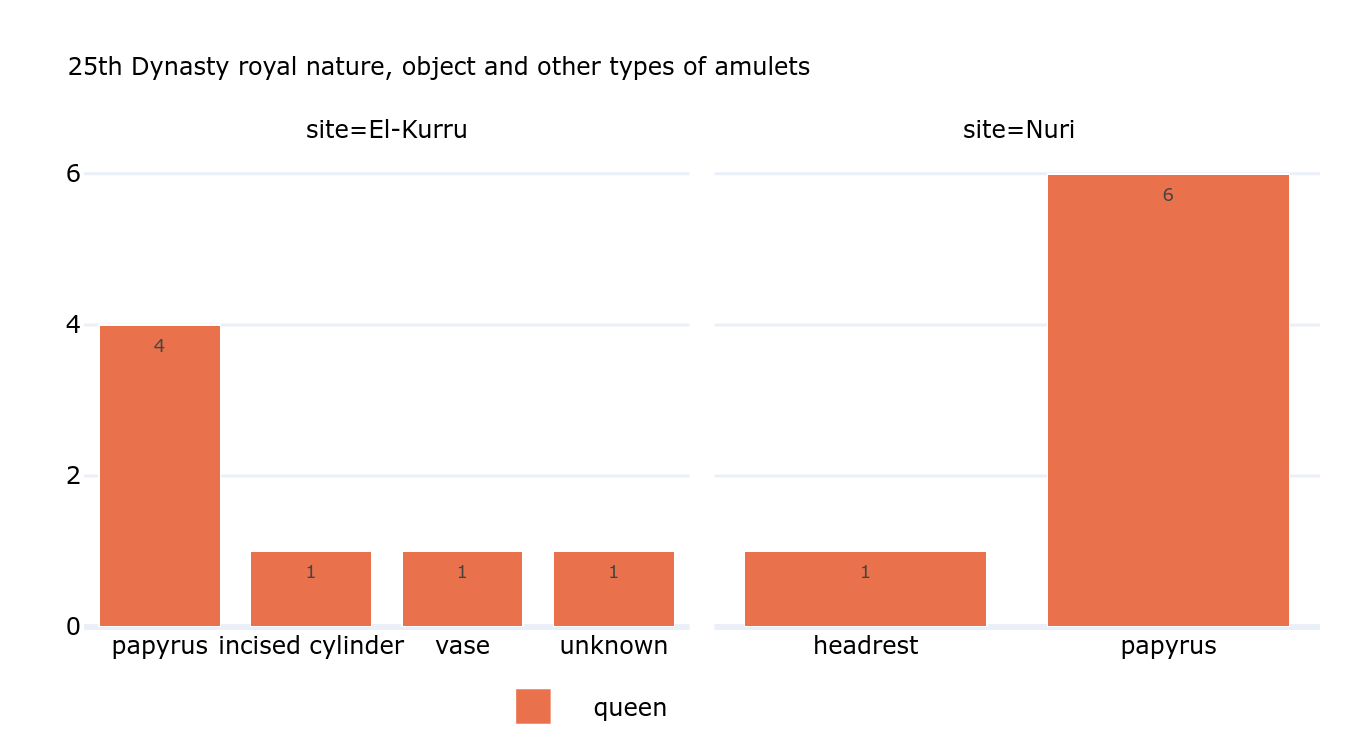
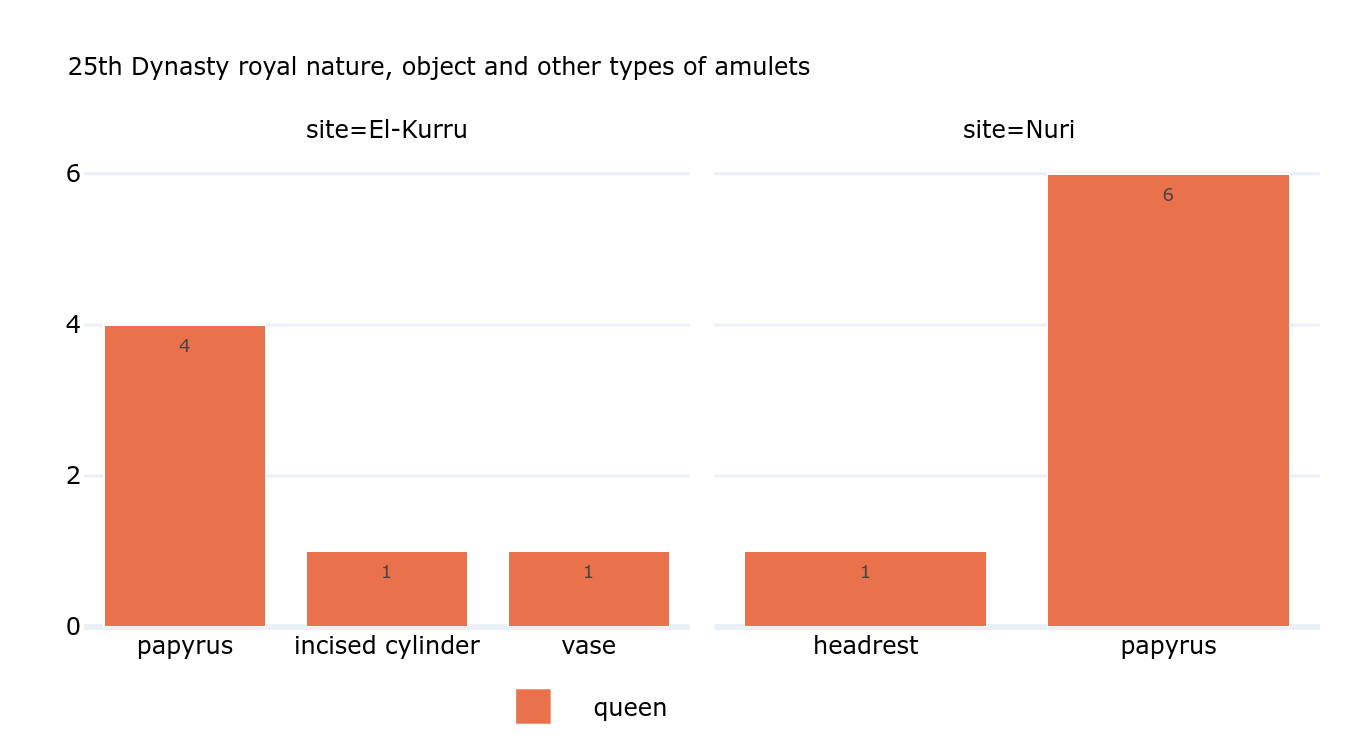
trying regional

Changed region(s): [[0.0933, 0.4293, 0.4978, 0.8893], [0.0622, 0.46, 0.0933, 0.828]]

diff --git a/chapter5/region_forms.py b/chapter5/region_forms.py
@@ -1,0 +1,71 @@
+import pandas as pd
+import plotly.express as px
+from sqlalchemy import create_engine
+import plotly.io as pio
+import plotly.graph_objects as go
+
+engine = create_engine('mysql+pymysql://victoria:amulets123@localhost:3306/phd_v5')
+
+query = """
+SELECT 
+    s.region,
+    a.form
+FROM amulets a
+JOIN burials b ON a.burial_id = b.burial_id
+JOIN sites s ON a.site_id = s.site_id
+WHERE b.dating = 'napatan' 
+    AND b.social_group = 'non-elite'
+    AND a.form2 IS NULL
+GROUP BY s.region, a.form
+HAVING NOT EXISTS (
+    SELECT 1
+    FROM amulets a2
+    JOIN burials b2 ON a2.burial_id = b2.burial_id
+    JOIN sites s2 ON a2.site_id = s2.site_id
+    WHERE a2.form = a.form
+        AND s2.region != s.region
+        AND b2.dating = 'napatan' 
+        AND b2.social_group = 'non-elite'
+        AND a2.form2 IS NULL
+)
+ORDER BY 1,2
+"""
+
+df = pd.read_sql(query, engine)
+
+custom_colors = ['#C0C0C0']
+
+region_order = ["lower nubia", "north upper nubia", "4th cataract", "meroe region"]
+
+df['region'] = pd.Categorical(df['region'], categories=region_order, ordered=True)
+
+df = df.sort_values('region')
+
+df = df.reset_index(drop=True)
+
+pivot_df = df.groupby(['form', 'region']).size().unstack(fill_value=0)
+
+fig = px.imshow(
+    pivot_df,
+    #x='dummy',
+    #y='region',
+    #color='form',
+    title='Average number of amulets per tomb by region and phase',
+    #color_discrete_sequence=custom_colors,
+    template="plotly_white",
+    aspect='auto')
+
+fig.update_layout( 
+    font=dict(
+        family="Verdana, sans-serif",
+        color='black',
+        size=8),
+    margin=dict(l=0, r=10, t=50, b=0),
+    title_font=dict(size=8)
+)
+
+#fig.update_traces(textposition='top right', textfont_size=7)
+fig.update_xaxes(title_text='')
+fig.update_yaxes(title_text='')
+
+pio.write_image(fig, 'images/chapter5/region_forms.png',scale=3, width=400, height=300)

diff --git a/chapter5/25-EN_with_2forms.py b/chapter5/25-EN_with_2forms.py
@@ -25,22 +25,12 @@ GROUP BY 1,2
 
 df = pd.read_sql(query, engine)
 
-grey_smooth = [
-    [0.0, '#e0e0e0'],  # Light grey
-    [0.3, '#c8c8c8'],   # Medium light grey
-    [0.5, '#a0a0a0'],   # Medium grey
-    [0.7, '#787878'],   # Medium dark grey
-    [0.85, '#505050'],  # Dark grey
-    [1.0, '#282828']    # Very dark grey
-]
-
 fig = px.scatter(
     df,
     x="form2",
     y="form",
-    color="total",
     text='total',                 
-    color_continuous_scale='Sunset',
+    color_discrete_sequence=['#cccccc'],
     title="25th Dynasty-Early Napatan amulets combining two motifs",
     labels={"total": "Total"},
     size_max=20,
@@ -65,17 +55,11 @@ fig.update_layout(
     legend_title_text='',
     margin=dict(l=0, r=10, t=20, b=0),
     autosize=True,
-    title_font=dict(size=8),
-    coloraxis=dict(
-        colorbar=dict(
-            tickfont=dict(size=7),
-            title_font=dict(size=7)
-        )
-    )
+    title_font=dict(size=8)
 )
 
 fig.update_traces(textposition='top right', textfont_size=6)
 fig.update_xaxes(title_text='', tickangle=45)
 fig.update_yaxes(title_text='')
 
-pio.write_image(fig, 'images/chapter5/25-EN_with_2forms.png',scale=4, width=550, height=400)
+pio.write_image(fig, 'images/chapter5/25-EN_with_2forms.png',scale=3, width=550, height=400)

diff --git a/chapter5/elite_amulets_form_2.py b/chapter5/elite_amulets_form_2.py
@@ -21,6 +21,7 @@ WITH expanded_forms AS (
         AND a.form IS NOT NULL
         AND (super = 'pyramid' OR sub IN ('chambers', 'cave tomb'))
         AND type NOT IN ('deity', 'symbol')
+        and form != 'unknown'
 
     UNION ALL
 
@@ -36,6 +37,7 @@ WITH expanded_forms AS (
         AND a.form2 IS NOT NULL
         AND (super = 'pyramid' OR sub IN ('chambers', 'cave tomb'))
         AND type NOT IN ('deity', 'symbol')
+        and form != 'unknown'
 
     UNION ALL
 
@@ -51,6 +53,7 @@ WITH expanded_forms AS (
         AND a.form3 IS NOT NULL
         AND (super = 'pyramid' OR sub IN ('chambers', 'cave tomb'))
         AND type NOT IN ('deity', 'symbol')
+        and form != 'unknown'
 )
 SELECT 
     temp,

diff --git a/chapter4/25_amulets_forms_misc.py b/chapter4/25_amulets_forms_misc.py
@@ -21,6 +21,7 @@ WITH expanded_forms AS (
         AND s.site_id IN (1,2)
         AND a.form IS NOT NULL
         AND a.type IN ('object', 'other', 'nature', 'human')
+        and form != 'unknown'
 
     UNION ALL
 
@@ -38,6 +39,7 @@ WITH expanded_forms AS (
         AND s.site_id IN (1,2)
         AND a.form2 IS NOT NULL
         AND a.type IN ('object', 'other', 'nature', 'human')
+        and form != 'unknown'
 
     UNION ALL
 
@@ -55,6 +57,7 @@ WITH expanded_forms AS (
         AND s.site_id IN (1,2)
         AND a.form3 IS NOT NULL
         AND a.type IN ('object', 'other', 'nature', 'human')
+        and form != 'unknown'
 )
 SELECT 
     site_name,

diff --git a/chapter4/pre_amulets_forms.py b/chapter4/pre_amulets_forms.py
@@ -19,6 +19,7 @@ WITH expanded_forms AS (
         b.temp = 'pre-25th' 
         AND s.site_id IN (1,2)
         AND a.form IS NOT NULL
+        and form != 'unknown'
 
     UNION ALL
 
@@ -34,6 +35,7 @@ WITH expanded_forms AS (
         b.temp = 'pre-25th' 
         AND s.site_id IN (1,2)
         AND a.form2 IS NOT NULL
+        and form != 'unknown'
 
     UNION ALL
 
@@ -49,6 +51,7 @@ WITH expanded_forms AS (
         b.temp = 'pre-25th' 
         AND s.site_id IN (1,2)
         AND a.form3 IS NOT NULL
+        and form != 'unknown'
 )
 SELECT 
     site_name,

diff --git a/chapter4/early_amulets_forms.py b/chapter4/early_amulets_forms.py
@@ -19,6 +19,7 @@ WITH expanded_forms AS (
         b.temp = 'EN' 
         AND s.site_id IN (1,2)
         AND a.form IS NOT NULL
+        and form != 'unknown'
 
     UNION ALL
 
@@ -34,6 +35,7 @@ WITH expanded_forms AS (
         b.temp = 'EN' 
         AND s.site_id IN (1,2)
         AND a.form2 IS NOT NULL
+        and form != 'unknown'
 
     UNION ALL
 
@@ -49,6 +51,7 @@ WITH expanded_forms AS (
         b.temp = 'EN' 
         AND s.site_id IN (1,2)
         AND a.form3 IS NOT NULL
+        and form != 'unknown'
 )
 SELECT 
     site_name,

diff --git a/chapter4/late_amulets_forms.py b/chapter4/late_amulets_forms.py
@@ -19,6 +19,7 @@ WITH expanded_forms AS (
         b.temp = 'LN' 
         AND s.site_id IN (1,2)
         AND a.form IS NOT NULL
+        and form != 'unknown'
 
     UNION ALL
 
@@ -34,6 +35,7 @@ WITH expanded_forms AS (
         b.temp = 'LN' 
         AND s.site_id IN (1,2)
         AND a.form2 IS NOT NULL
+        and form != 'unknown'
 
     UNION ALL
 
@@ -49,6 +51,7 @@ WITH expanded_forms AS (
         b.temp = 'LN' 
         AND s.site_id IN (1,2)
         AND a.form3 IS NOT NULL
+        and form != 'unknown'
 )
 SELECT 
     site_name,

diff --git a/chapter4/middle_amulets_forms.py b/chapter4/middle_amulets_forms.py
@@ -19,6 +19,7 @@ WITH expanded_forms AS (
         b.temp = 'MN' 
         AND s.site_id IN (1,2)
         AND a.form IS NOT NULL
+        and form != 'unknown'
 
     UNION ALL
 
@@ -34,6 +35,7 @@ WITH expanded_forms AS (
         b.temp = 'MN' 
         AND s.site_id IN (1,2)
         AND a.form2 IS NOT NULL
+        and form != 'unknown'
 
     UNION ALL
 
@@ -49,6 +51,7 @@ WITH expanded_forms AS (
         b.temp = 'MN' 
         AND s.site_id IN (1,2)
         AND a.form3 IS NOT NULL
+        and form != 'unknown'
 )
 SELECT 
     site_name,

diff --git a/chapter5/25_amulets_form_rest.py b/chapter5/25_amulets_form_rest.py
@@ -18,7 +18,8 @@ WHERE
     AND temp = '25th'
     AND s.site_id IN (4,5,6,7,8,9,10)
     and social_group = 'non-elite'
-    and type in ('human', 'other', 'object', 'nature')\
+    and type in ('human', 'other', 'object', 'nature')
+    and form != 'unknown'
     and form2 is null
     and form3 is null
 GROUP BY 1,2

diff --git a/chapter5/25-EN_amulets_form_rest.py b/chapter5/25-EN_amulets_form_rest.py
@@ -26,6 +26,7 @@ WHERE
     AND a.form3 IS NULL
     AND social_group = 'non-elite'
     AND type IN ('nature', 'human', 'object', 'other')
+    and form != 'unknown'
 GROUP BY 1,2
 """
 

diff --git a/chapter5/EN_amulets_form.py b/chapter5/EN_amulets_form.py
@@ -22,6 +22,7 @@ WHERE
     AND temp IN ('EN', 'EN-MN')
     AND s.site_id IN (4,5,6,7,8,9,10)
     and social_group = 'non-elite'
+    and form != 'unknown'
 GROUP BY 1,2,3
 """
 
